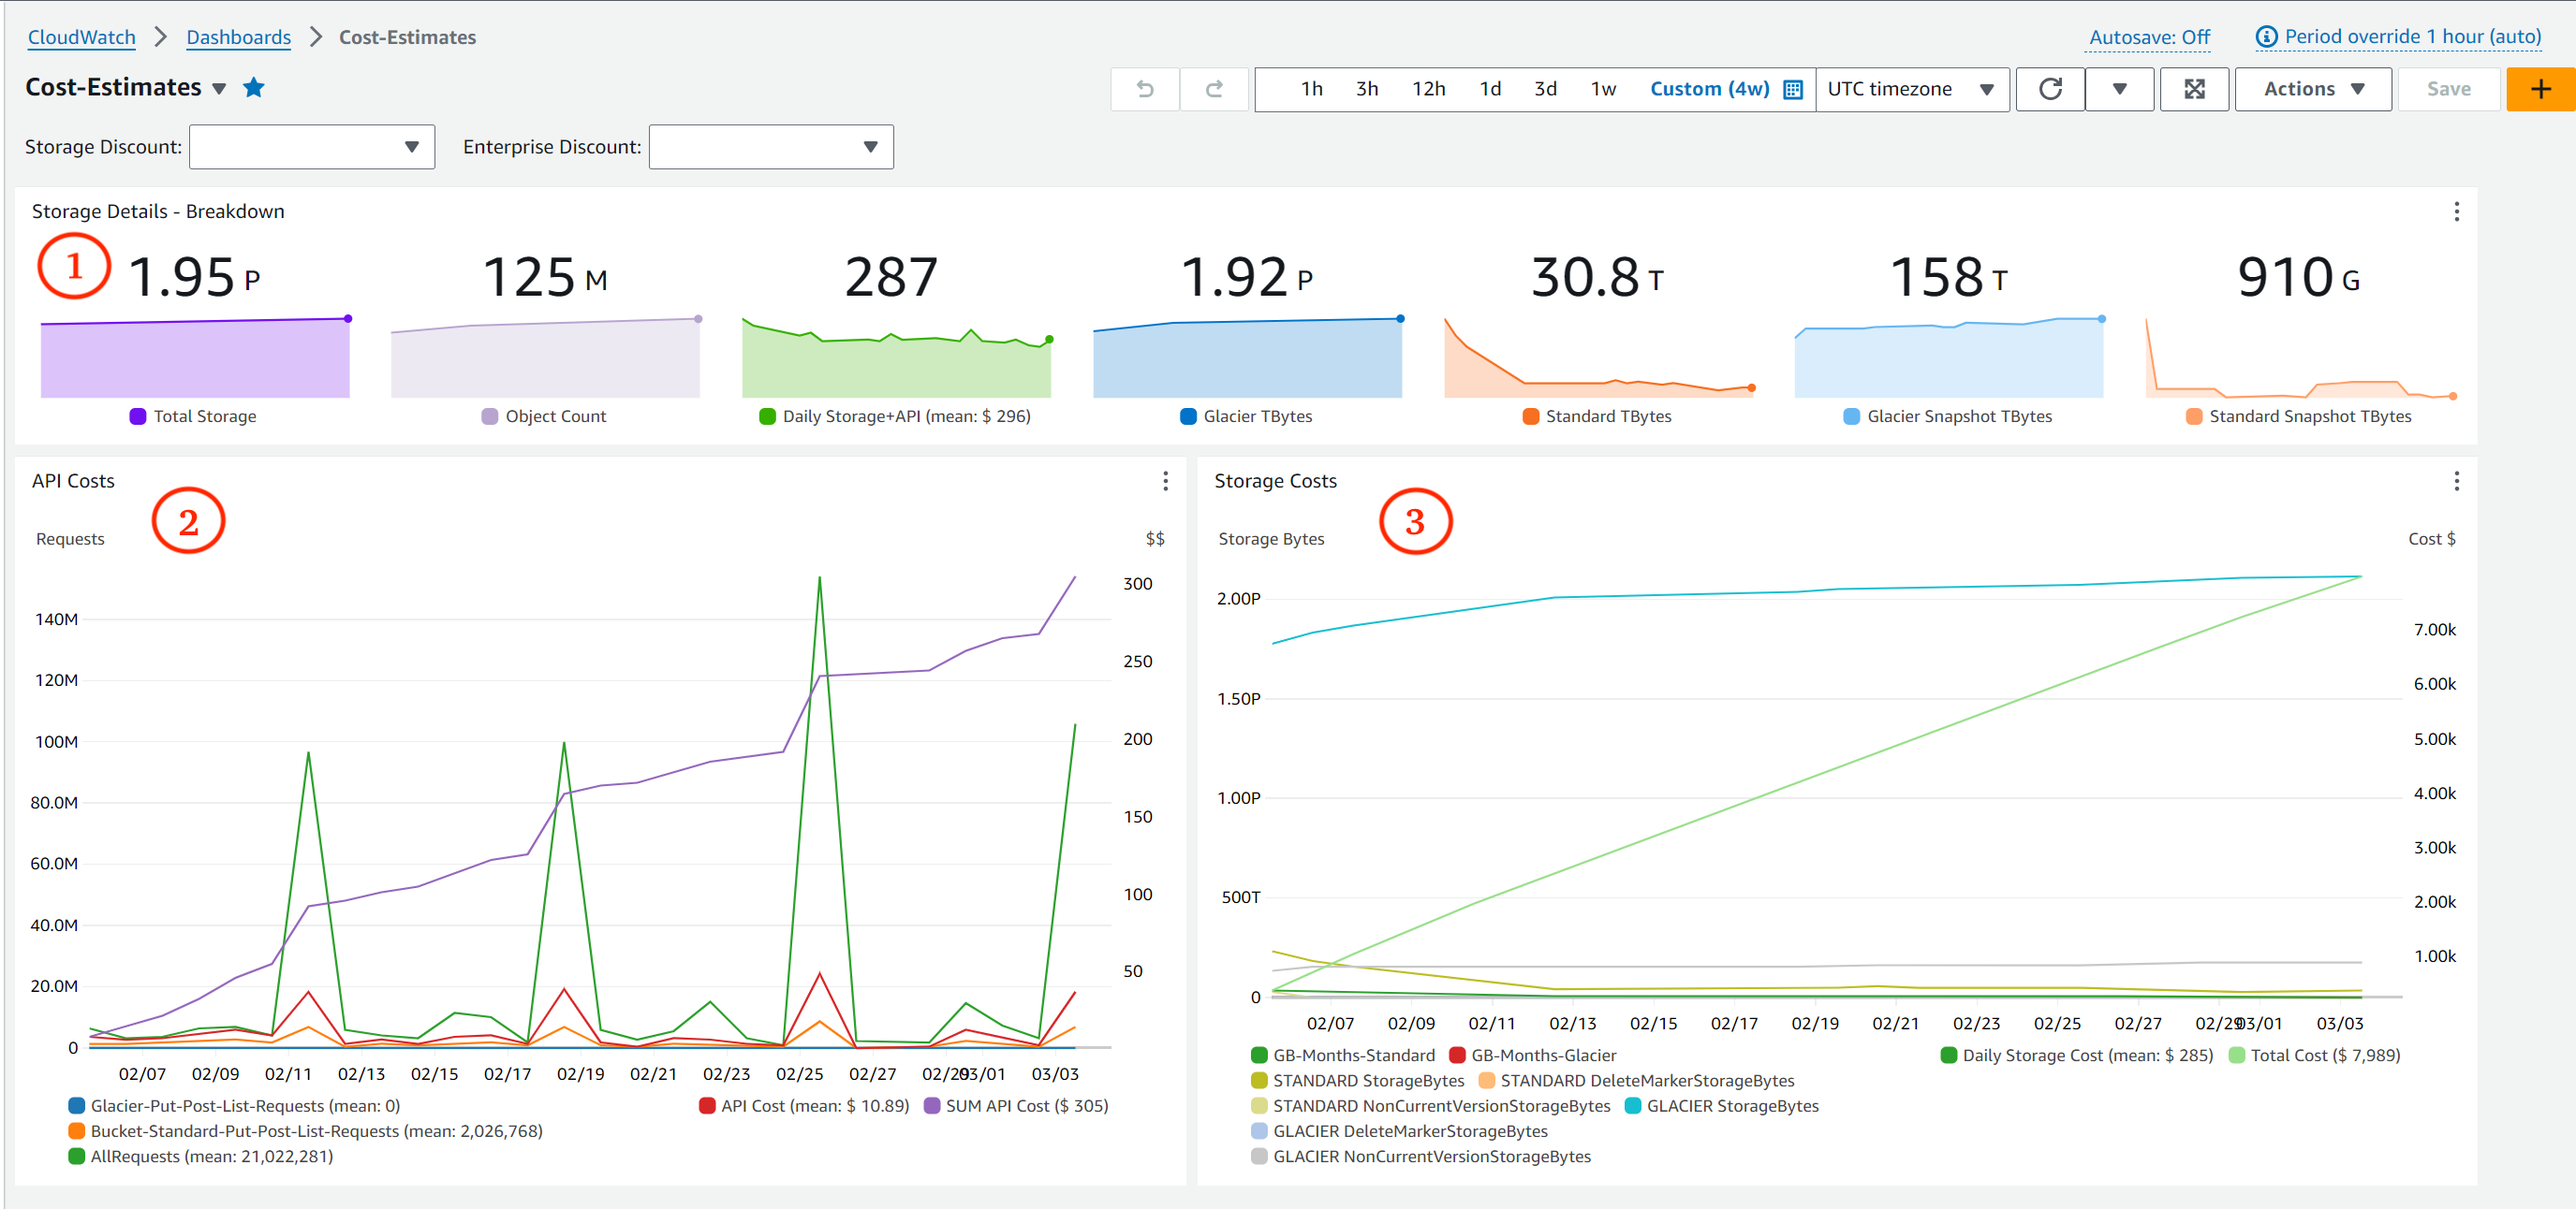
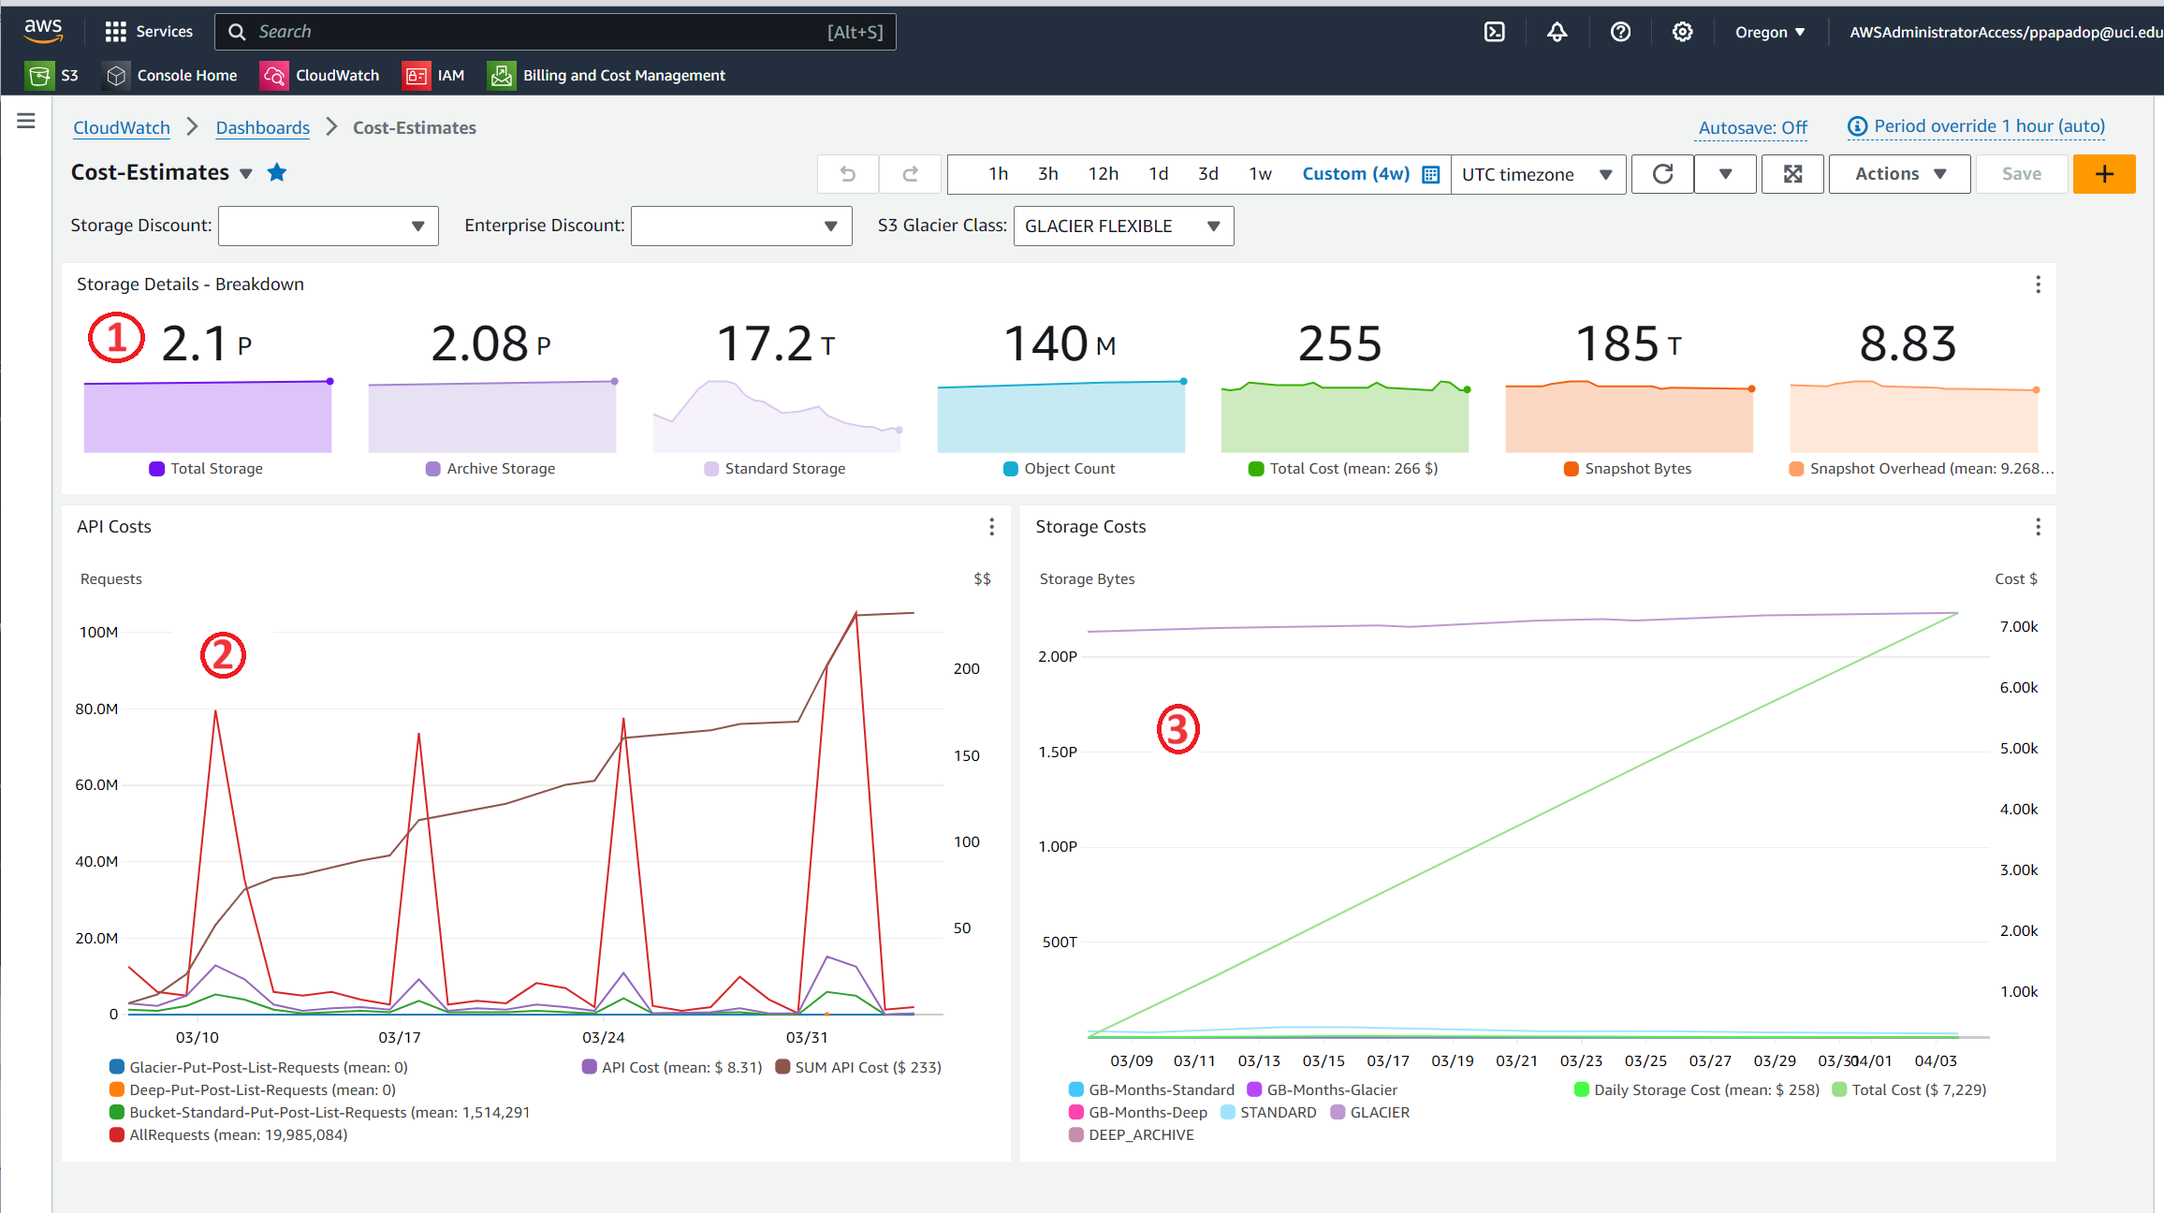
Update cost estimates dashboards based on new look. Document the IP address setting for service accounts

diff --git a/docs/source/installation/cloudmanage.rst b/docs/source/installation/cloudmanage.rst
@@ -130,13 +130,14 @@ address will be denied.
 
 .. parsed-literal::
 
-   **create-bucket-with-inventory.sh -n 128.195.216.147/32 panteater labstorage**
+   **create-bucket-with-inventory.sh -n 129.195.216.147/32 panteater labstorage**
 
 You can validate this restriction by logging on to your AWS web console, accessing the IAM service dashboard, and 
 selecting user-defined policies. In this example, it is the policy named 
 :bluelight:`panteater-labstorage-uci-bkup-policy`.  The summary view of this policy shows explict Deny and Allow 
 Sections. Please take note of the *SourceIP| IP address* restriction that has been properly set to 
-:bluelight:`128.195.216.147/32`. 
+:bluelight:`129.195.216.147/32`. The policy also allows the *service account* to publish to a very particular SNS
+Notification Stream, if it exists.
 
 .. image:: /images/cloudadmin/IP-Policy-Restriction.png
    :alt: IP Host Restriction 
@@ -274,10 +275,12 @@ of :fname:`quotas.csv`.  Simply issue the :fname:`cloudadmin/set-cloudwatch-comp
     Putting Dashboard:  System-Alarms into cloudwatch
 
 
-The next screenshot shows the cost estimates dashboard by bucket. In this case we have two test buckets:
-*fedaykin* and *labstorage*.  One can customize the timeframe (4 days in this sample). 
+The next screenshot shows the cost estimates dashboard by bucket. In this case we have numerous buckets, and their
+names have been blurred. Each line shows storage utilization, number of objects, cost, data held in snapshots, 
+and percentage overhead of snapshots.
+One can customize the timeframe (4 weeks is the default). 
 
-.. image:: /images/cloudadmin/Cost-Estimates-Bucket.png
+.. image:: /images/cloudadmin/Cost-Estimates-Bucket-Dashboard.png
    :alt: Cost Estimation Per Bucket 
 
 .. parsed-literal::

diff --git a/docs/source/installation/cloudadmin.rst b/docs/source/installation/cloudadmin.rst
@@ -311,8 +311,9 @@ display similar to the following:
    :alt: Cost Estimates Dashboard
 
 :1:
-  The top 7 line graphs describe total data, number of files, cost of storage and API over time, how much is Glacier
-  storage vs. Standard storage, and how much data is in "snapshots" (either deleted or overwritten data).
+  The top 7 line graphs describe total data, data in archive, data in standard, number of objects (files),
+  cost of storage and API calls over time, how much data is in "snapshots" (either deleted or overwritten data),
+  and percentage overhead of snaphots.
 
 :2:
   The line graphs on the left show API cost over time
@@ -321,6 +322,6 @@ display similar to the following:
   The line graphs on the right show storage costs over time.
 
 .. note::
-   The time frame is settable (standard Cloudwatch), but we find that 4 week and 3 month graphs
+   The time frame is settable (standard Cloudwatch), but we find that 4 weeks (default) and 3 month graphs
    are the most useful.  Please note that the metrics used to create this dashboard utilize AWS-supplied
    measurements. Those measurements are updated *daily*, so this is not a real-time view.
